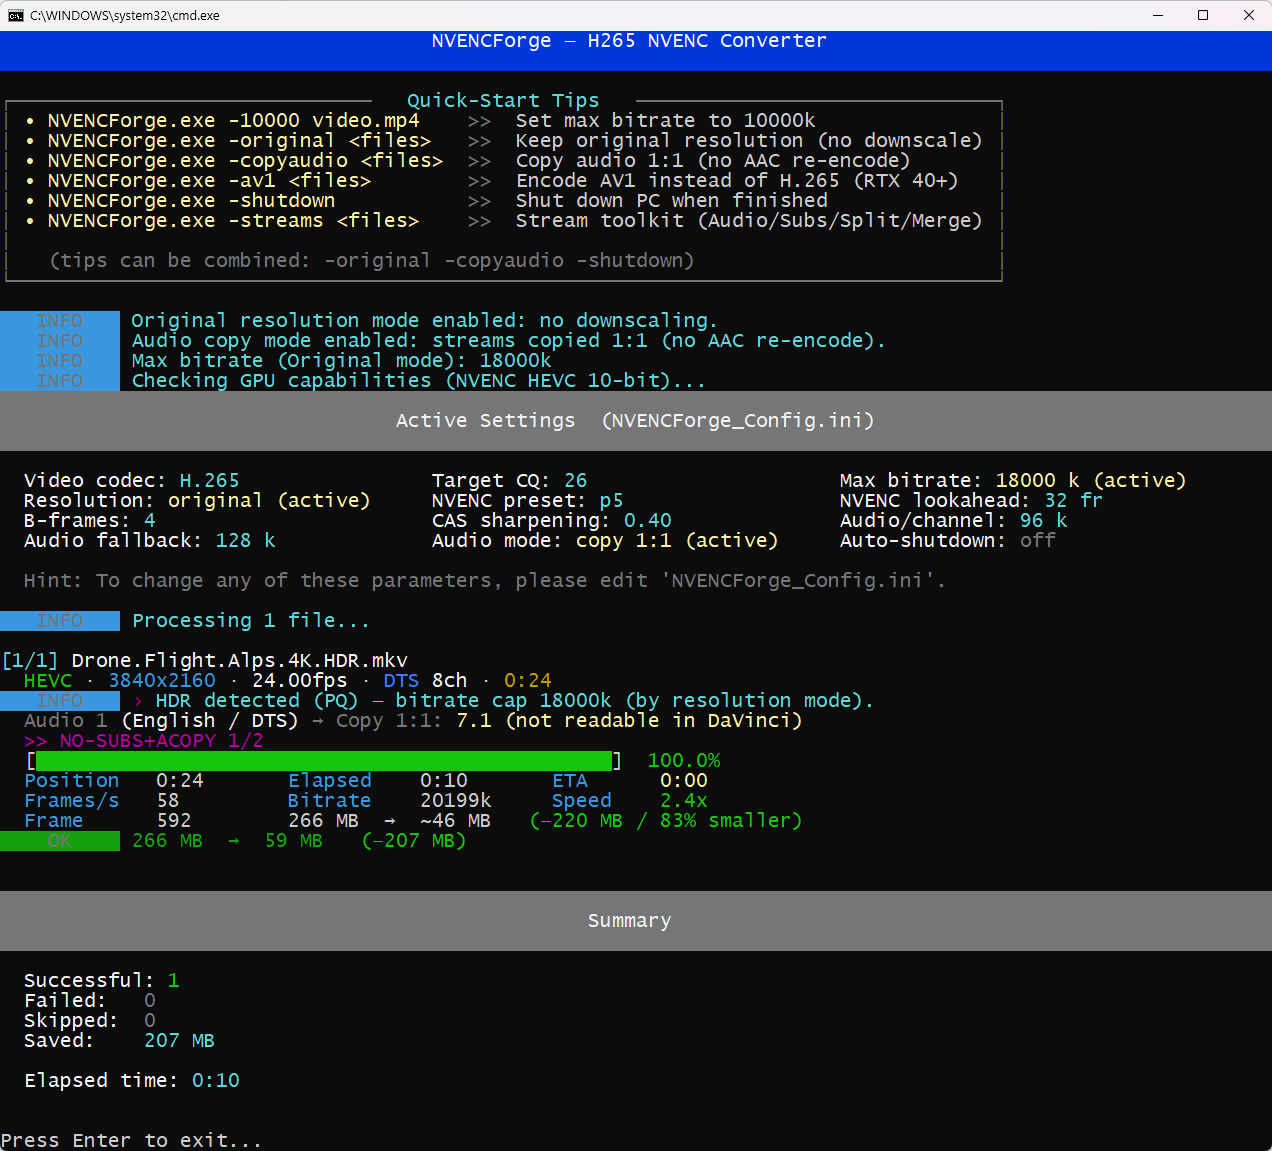
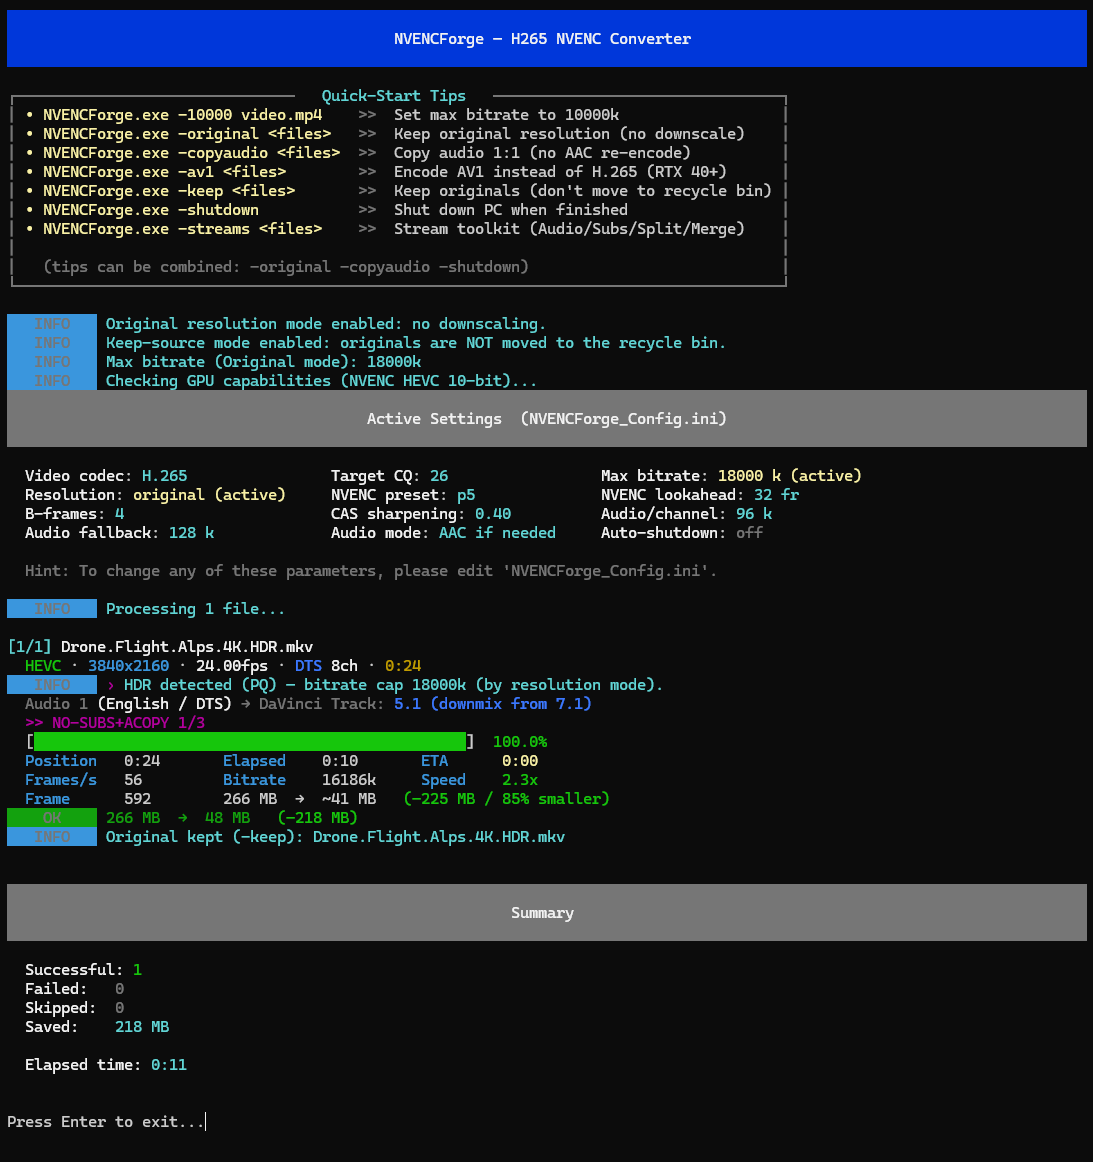
Update README screenshot for 1.1.0
Fresh terminal capture showing the new -keep flag: it now appears in
the Quick-Start Tips box and the run keeps the original ("Original
kept (-keep)"). Same 4K HDR demo clip (266 MB to 59 MB, HDR passed
through). Alt text updated accordingly.

Changed region(s): [[0.0, 0.0, 1.0, 1.0]]

diff --git a/README.md b/README.md
@@ -17,7 +17,7 @@ HDR-aware. Resilient. DaVinci-Resolve-ready. One EXE.
 
 **[⬇️ Download the latest release](https://github.com/burnersen/NVENCForge/releases/latest)** · **[☕ Buy me a coffee](https://ko-fi.com/T5G0219GA6)**
 
-<img src=".github/screenshot.png" alt="NVENCForge converting a 4K HDR clip: 266 MB in, 59 MB out, HDR detected and passed through" width="840">
+<img src=".github/screenshot.png" alt="NVENCForge converting a 4K HDR clip with -keep: 266 MB in, 59 MB out, HDR detected and passed through, original kept" width="840">
 
 </div>
 